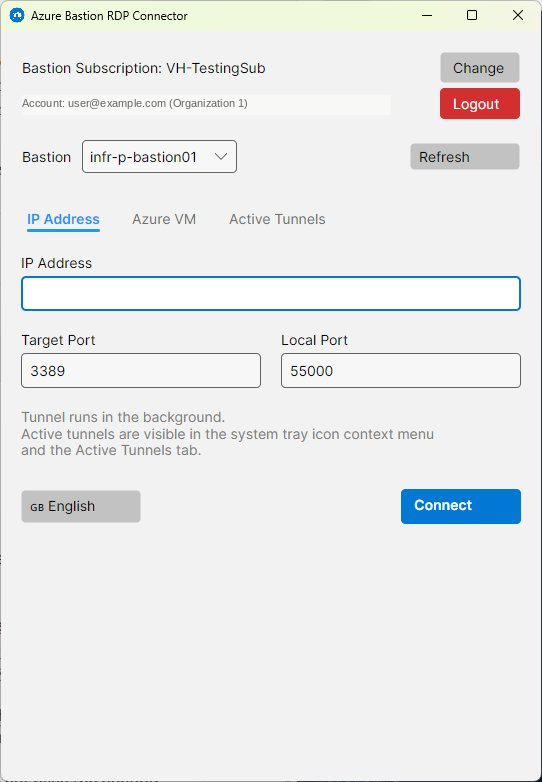
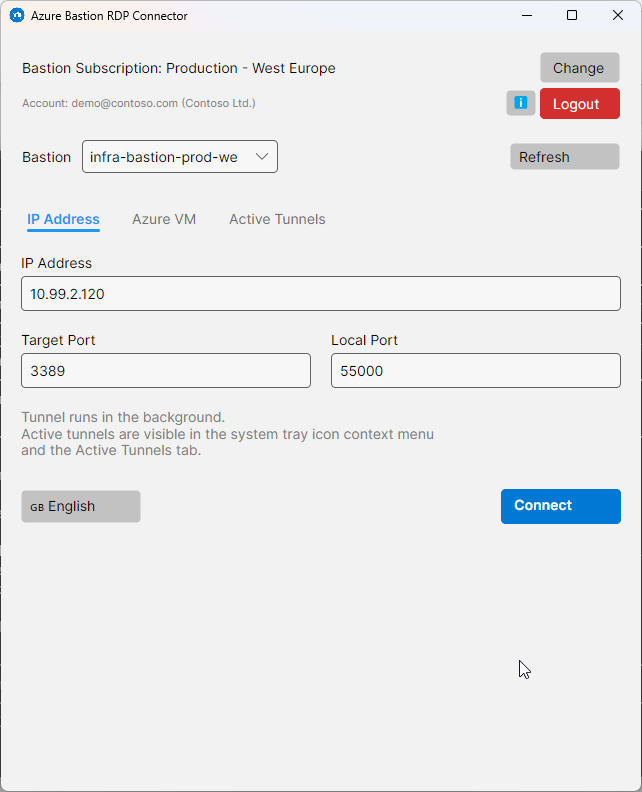
docs: nieuwe screenshots v3.3 — IP tab, VM modi, About dialoog
- screen-ip.png: IP-adres tab
- screen-vm-running.png: Azure VM, RD Gateway, running + Connect actief
- screen-vm-stopped.png: Azure VM, RD Gateway, stopped (deallocated)
- screen-vm-tunnel.png: Azure VM, Tunnel-modus, poortconfiguratie
- screen-vm-allsubs.png: Azure VM, Alle subscriptions dropdown open
- screen-about.png: About/diagnostics dialoogvenster
- TODO-commentaar verwijderd uit alle 6 taalversies
- Nieuwe screenshots op juiste plekken in de HTML geplaatst (6 talen)

diff --git a/index.fr.html b/index.fr.html
@@ -1078,16 +1078,17 @@
 
     <div style="display:flex; gap:16px; align-items:flex-start; margin:16px 0 20px; flex-wrap:wrap;">
       <div style="text-align:center;">
-        <!-- TODO: update screenshot for v3.3 two-column layout -->
         <img src="screen-vm-stopped.png" alt="Azure VM tab – VM stopped" style="width:240px; border-radius:8px; border:1px solid var(--border); box-shadow:0 4px 16px rgba(0,0,0,.10);"/>
         <div style="font-size:12px; color:var(--ink-faint); margin-top:6px;">VM arrêtée (désallouée)</div>
       </div>
       <div style="text-align:center;">
-        <!-- TODO: update screenshot for v3.3 two-column layout -->
         <img src="screen-vm-running.png" alt="Azure VM tab – VM running" style="width:240px; border-radius:8px; border:1px solid var(--border); box-shadow:0 4px 16px rgba(0,0,0,.10);"/>
         <div style="font-size:12px; color:var(--ink-faint); margin-top:6px;">VM en cours – Connecter activé</div>
       </div>
     </div>
+
+    <!-- Tunnel mode screenshot -->
+    <img src="screen-vm-tunnel.png" alt="Onglet Azure VM – Mode Tunnel" style="display:block; width:280px; border-radius:8px; border:1px solid var(--border); box-shadow:0 4px 16px rgba(0,0,0,.10); margin:16px 0 20px;"/>
 
     <h3>Disposition en deux colonnes <span class="badge blue">v3.3</span></h3>
     <p>L'onglet Azure VM est divisé en deux colonnes :</p>
@@ -1113,6 +1114,8 @@
       <span class="ci">ℹ</span>
       <p><strong>Azure Resource Graph</strong> — Depuis la v3.3, le chargement des VM utilise l'API Azure Resource Graph pour les requêtes inter-abonnements. Cela remplace l'approche précédente consistant à interroger chaque abonnement individuellement, rendant les scénarios multi-abonnements nettement plus rapides.</p>
     </div>
+
+    <img src="screen-vm-allsubs.png" alt="Onglet Azure VM – Recherche tous abonnements" style="display:block; width:280px; border-radius:8px; border:1px solid var(--border); box-shadow:0 4px 16px rgba(0,0,0,.10); margin:16px 0 20px;"/>
 
     <div class="ui-card">
       <div class="ui-card-titlebar">
@@ -1561,6 +1564,8 @@
   <section id="about">
     <h2><span class="icon">ℹ</span> À propos &amp; Diagnostics <span class="badge blue">v3.3</span></h2>
     <p>Un nouveau <strong>bouton ℹ</strong> dans la barre supérieure ouvre la boîte de dialogue À propos. Elle affiche la version de l'application, les informations sur la plateforme et deux actions de diagnostic :</p>
+
+    <img src="screen-about.png" alt="Fenêtre À propos" style="display:block; width:320px; border-radius:8px; border:1px solid var(--border); box-shadow:0 4px 16px rgba(0,0,0,.10); margin:16px 0 20px;"/>
 
     <table class="field-table">
       <thead><tr><th>Action</th><th>Description</th></tr></thead>

diff --git a/index.es.html b/index.es.html
@@ -1085,16 +1085,17 @@
 
     <div style="display:flex; gap:16px; align-items:flex-start; margin:16px 0 20px; flex-wrap:wrap;">
       <div style="text-align:center;">
-        <!-- TODO: update screenshot for v3.3 two-column layout -->
         <img src="screen-vm-stopped.png" alt="Azure VM tab – VM stopped" style="width:240px; border-radius:8px; border:1px solid var(--border); box-shadow:0 4px 16px rgba(0,0,0,.10);"/>
         <div style="font-size:12px; color:var(--ink-faint); margin-top:6px;">VM detenida (desasignada)</div>
       </div>
       <div style="text-align:center;">
-        <!-- TODO: update screenshot for v3.3 two-column layout -->
         <img src="screen-vm-running.png" alt="Azure VM tab – VM running" style="width:240px; border-radius:8px; border:1px solid var(--border); box-shadow:0 4px 16px rgba(0,0,0,.10);"/>
         <div style="font-size:12px; color:var(--ink-faint); margin-top:6px;">VM en ejecución – Conectar habilitado</div>
       </div>
     </div>
+
+    <!-- Tunnel mode screenshot -->
+    <img src="screen-vm-tunnel.png" alt="Pestaña Azure VM – Modo Túnel" style="display:block; width:280px; border-radius:8px; border:1px solid var(--border); box-shadow:0 4px 16px rgba(0,0,0,.10); margin:16px 0 20px;"/>
 
     <h3>Diseño de dos columnas <span class="badge blue">v3.3</span></h3>
     <p>La pestaña Azure VM está dividida en dos columnas:</p>
@@ -1120,6 +1121,8 @@
       <span class="ci">ℹ</span>
       <p><strong>Azure Resource Graph</strong> — En la v3.3, la carga de VM usa la API Azure Resource Graph para consultas entre suscripciones. Esto reemplaza el enfoque anterior de llamar individualmente a cada suscripción, haciendo los escenarios de múltiples suscripciones considerablemente más rápidos.</p>
     </div>
+
+    <img src="screen-vm-allsubs.png" alt="Pestaña Azure VM – Buscar todas las suscripciones" style="display:block; width:280px; border-radius:8px; border:1px solid var(--border); box-shadow:0 4px 16px rgba(0,0,0,.10); margin:16px 0 20px;"/>
 
     <div class="ui-card">
       <div class="ui-card-titlebar">
@@ -1568,6 +1571,8 @@
   <section id="about">
     <h2><span class="icon">ℹ</span> Acerca de &amp; Diagnósticos <span class="badge blue">v3.3</span></h2>
     <p>Un nuevo <strong>botón ℹ</strong> en la barra superior abre el cuadro de diálogo Acerca de. Muestra la versión de la aplicación, información de la plataforma y dos acciones de diagnóstico:</p>
+
+    <img src="screen-about.png" alt="Cuadro de diálogo Acerca de" style="display:block; width:320px; border-radius:8px; border:1px solid var(--border); box-shadow:0 4px 16px rgba(0,0,0,.10); margin:16px 0 20px;"/>
 
     <table class="field-table">
       <thead><tr><th>Acción</th><th>Descripción</th></tr></thead>

diff --git a/index.pt.html b/index.pt.html
@@ -1085,16 +1085,17 @@
 
     <div style="display:flex; gap:16px; align-items:flex-start; margin:16px 0 20px; flex-wrap:wrap;">
       <div style="text-align:center;">
-        <!-- TODO: update screenshot for v3.3 two-column layout -->
         <img src="screen-vm-stopped.png" alt="Azure VM tab – VM stopped" style="width:240px; border-radius:8px; border:1px solid var(--border); box-shadow:0 4px 16px rgba(0,0,0,.10);"/>
         <div style="font-size:12px; color:var(--ink-faint); margin-top:6px;">VM parada (desalocada)</div>
       </div>
       <div style="text-align:center;">
-        <!-- TODO: update screenshot for v3.3 two-column layout -->
         <img src="screen-vm-running.png" alt="Azure VM tab – VM running" style="width:240px; border-radius:8px; border:1px solid var(--border); box-shadow:0 4px 16px rgba(0,0,0,.10);"/>
         <div style="font-size:12px; color:var(--ink-faint); margin-top:6px;">VM em execução – Ligar ativado</div>
       </div>
     </div>
+
+    <!-- Tunnel mode screenshot -->
+    <img src="screen-vm-tunnel.png" alt="Separador Azure VM – Modo Túnel" style="display:block; width:280px; border-radius:8px; border:1px solid var(--border); box-shadow:0 4px 16px rgba(0,0,0,.10); margin:16px 0 20px;"/>
 
     <h3>Disposição de duas colunas <span class="badge blue">v3.3</span></h3>
     <p>O separador Azure VM está dividido em duas colunas:</p>
@@ -1120,6 +1121,8 @@
       <span class="ci">ℹ</span>
       <p><strong>Azure Resource Graph</strong> — Na v3.3, o carregamento de VMs utiliza a API Azure Resource Graph para consultas entre subscrições. Isto substitui a abordagem anterior de chamar individualmente cada subscrição, tornando os cenários de múltiplas subscrições consideravelmente mais rápidos.</p>
     </div>
+
+    <img src="screen-vm-allsubs.png" alt="Separador Azure VM – Pesquisar todas as assinaturas" style="display:block; width:280px; border-radius:8px; border:1px solid var(--border); box-shadow:0 4px 16px rgba(0,0,0,.10); margin:16px 0 20px;"/>
 
     <div class="ui-card">
       <div class="ui-card-titlebar">
@@ -1568,6 +1571,8 @@
   <section id="about">
     <h2><span class="icon">ℹ</span> Sobre &amp; Diagnósticos <span class="badge blue">v3.3</span></h2>
     <p>Um novo <strong>botão ℹ</strong> na barra superior abre a caixa de diálogo Sobre. Mostra a versão da aplicação, informações da plataforma e duas ações de diagnóstico:</p>
+
+    <img src="screen-about.png" alt="Caixa de diálogo Sobre" style="display:block; width:320px; border-radius:8px; border:1px solid var(--border); box-shadow:0 4px 16px rgba(0,0,0,.10); margin:16px 0 20px;"/>
 
     <table class="field-table">
       <thead><tr><th>Ação</th><th>Descrição</th></tr></thead>

diff --git a/index.nl.html b/index.nl.html
@@ -1072,16 +1072,17 @@
 
     <div style="display:flex; gap:16px; align-items:flex-start; margin:16px 0 20px; flex-wrap:wrap;">
       <div style="text-align:center;">
-        <!-- TODO: update screenshot for v3.3 two-column layout -->
         <img src="screen-vm-stopped.png" alt="Azure VM tab – VM stopped" style="width:240px; border-radius:8px; border:1px solid var(--border); box-shadow:0 4px 16px rgba(0,0,0,.10);"/>
         <div style="font-size:12px; color:var(--ink-faint); margin-top:6px;">VM gestopt (gede-alloceerd)</div>
       </div>
       <div style="text-align:center;">
-        <!-- TODO: update screenshot for v3.3 two-column layout -->
         <img src="screen-vm-running.png" alt="Azure VM tab – VM running" style="width:240px; border-radius:8px; border:1px solid var(--border); box-shadow:0 4px 16px rgba(0,0,0,.10);"/>
         <div style="font-size:12px; color:var(--ink-faint); margin-top:6px;">VM actief — Verbinden ingeschakeld</div>
       </div>
     </div>
+
+    <!-- Tunnel mode screenshot -->
+    <img src="screen-vm-tunnel.png" alt="Azure VM tab – Tunnel-modus" style="display:block; width:280px; border-radius:8px; border:1px solid var(--border); box-shadow:0 4px 16px rgba(0,0,0,.10); margin:16px 0 20px;"/>
 
     <h3>Twee-kolommenindeling <span class="badge blue">v3.3</span></h3>
     <p>Het tabblad Azure VM is verdeeld in twee kolommen:</p>
@@ -1107,6 +1108,8 @@
       <span class="ci">ℹ</span>
       <p><strong>Azure Resource Graph</strong> — Vanaf v3.3 gebruikt het laden van VM's de Azure Resource Graph API voor zoekopdrachten over meerdere subscriptions. Dit vervangt de vorige aanpak waarbij elk subscription afzonderlijk werd bevraagd, waardoor scenario's met meerdere subscriptions aanzienlijk sneller zijn.</p>
     </div>
+
+    <img src="screen-vm-allsubs.png" alt="Azure VM tab – Alle subscriptions zoeken" style="display:block; width:280px; border-radius:8px; border:1px solid var(--border); box-shadow:0 4px 16px rgba(0,0,0,.10); margin:16px 0 20px;"/>
 
     <div class="ui-card">
       <div class="ui-card-titlebar">
@@ -1555,6 +1558,8 @@
   <section id="about">
     <h2><span class="icon">ℹ</span> Over &amp; Diagnostiek <span class="badge blue">v3.3</span></h2>
     <p>Een nieuwe <strong>ℹ-knop</strong> in de bovenste balk opent het Dialoogvenster Info. Dit toont de applicatieversie, platforminformatie en twee diagnostische acties:</p>
+
+    <img src="screen-about.png" alt="Over-dialoogvenster" style="display:block; width:320px; border-radius:8px; border:1px solid var(--border); box-shadow:0 4px 16px rgba(0,0,0,.10); margin:16px 0 20px;"/>
 
     <table class="field-table">
       <thead><tr><th>Actie</th><th>Beschrijving</th></tr></thead>

diff --git a/index.de.html b/index.de.html
@@ -1079,16 +1079,17 @@
 
     <div style="display:flex; gap:16px; align-items:flex-start; margin:16px 0 20px; flex-wrap:wrap;">
       <div style="text-align:center;">
-        <!-- TODO: update screenshot for v3.3 two-column layout -->
         <img src="screen-vm-stopped.png" alt="Azure VM tab – VM stopped" style="width:240px; border-radius:8px; border:1px solid var(--border); box-shadow:0 4px 16px rgba(0,0,0,.10);"/>
         <div style="font-size:12px; color:var(--ink-faint); margin-top:6px;">VM gestoppt (freigegeben)</div>
       </div>
       <div style="text-align:center;">
-        <!-- TODO: update screenshot for v3.3 two-column layout -->
         <img src="screen-vm-running.png" alt="Azure VM tab – VM running" style="width:240px; border-radius:8px; border:1px solid var(--border); box-shadow:0 4px 16px rgba(0,0,0,.10);"/>
         <div style="font-size:12px; color:var(--ink-faint); margin-top:6px;">VM läuft – Verbinden aktiviert</div>
       </div>
     </div>
+
+    <!-- Tunnel mode screenshot -->
+    <img src="screen-vm-tunnel.png" alt="Azure VM-Tab – Tunnel-Modus" style="display:block; width:280px; border-radius:8px; border:1px solid var(--border); box-shadow:0 4px 16px rgba(0,0,0,.10); margin:16px 0 20px;"/>
 
     <h3>Zweispaltiges Layout <span class="badge blue">v3.3</span></h3>
     <p>Die Registerkarte Azure VM ist in zwei Spalten unterteilt:</p>
@@ -1114,6 +1115,8 @@
       <span class="ci">ℹ</span>
       <p><strong>Azure Resource Graph</strong> — Ab v3.3 verwendet das Laden von VMs die Azure Resource Graph API für abonnementübergreifende Abfragen. Dies ersetzt den bisherigen Ansatz, bei dem jede Subscription einzeln abgefragt wurde, und macht Szenarien mit mehreren Subscriptions deutlich schneller.</p>
     </div>
+
+    <img src="screen-vm-allsubs.png" alt="Azure VM-Tab – Alle Abonnements suchen" style="display:block; width:280px; border-radius:8px; border:1px solid var(--border); box-shadow:0 4px 16px rgba(0,0,0,.10); margin:16px 0 20px;"/>
 
     <div class="ui-card">
       <div class="ui-card-titlebar">
@@ -1562,6 +1565,8 @@
   <section id="about">
     <h2><span class="icon">ℹ</span> Info &amp; Diagnose <span class="badge blue">v3.3</span></h2>
     <p>Eine neue <strong>ℹ-Schaltfläche</strong> in der oberen Leiste öffnet den Info-Dialog. Er zeigt die Anwendungsversion, Plattforminformationen und zwei Diagnoseaktionen:</p>
+
+    <img src="screen-about.png" alt="Über-Dialog" style="display:block; width:320px; border-radius:8px; border:1px solid var(--border); box-shadow:0 4px 16px rgba(0,0,0,.10); margin:16px 0 20px;"/>
 
     <table class="field-table">
       <thead><tr><th>Aktion</th><th>Beschreibung</th></tr></thead>

diff --git a/index.html b/index.html
@@ -1072,16 +1072,17 @@
 
     <div style="display:flex; gap:16px; align-items:flex-start; margin:16px 0 20px; flex-wrap:wrap;">
       <div style="text-align:center;">
-        <!-- TODO: update screenshot for v3.3 two-column layout -->
         <img src="screen-vm-stopped.png" alt="Azure VM tab – VM stopped" style="width:240px; border-radius:8px; border:1px solid var(--border); box-shadow:0 4px 16px rgba(0,0,0,.10);"/>
         <div style="font-size:12px; color:var(--ink-faint); margin-top:6px;">VM stopped (deallocated)</div>
       </div>
       <div style="text-align:center;">
-        <!-- TODO: update screenshot for v3.3 two-column layout -->
         <img src="screen-vm-running.png" alt="Azure VM tab – VM running" style="width:240px; border-radius:8px; border:1px solid var(--border); box-shadow:0 4px 16px rgba(0,0,0,.10);"/>
         <div style="font-size:12px; color:var(--ink-faint); margin-top:6px;">VM running – Connect enabled</div>
       </div>
     </div>
+
+    <!-- Tunnel mode screenshot -->
+    <img src="screen-vm-tunnel.png" alt="Azure VM tab – Tunnel mode" style="display:block; width:280px; border-radius:8px; border:1px solid var(--border); box-shadow:0 4px 16px rgba(0,0,0,.10); margin:16px 0 20px;"/>
 
     <h3>Two-column layout <span class="badge blue">v3.3</span></h3>
     <p>The Azure VM tab is divided into two columns:</p>
@@ -1107,6 +1108,8 @@
       <span class="ci">ℹ</span>
       <p><strong>Azure Resource Graph</strong> — In v3.3, VM loading uses the Azure Resource Graph API for cross-subscription queries. This replaces the previous approach of calling each subscription's ARM endpoint individually, making multi-subscription scenarios dramatically faster.</p>
     </div>
+
+    <img src="screen-vm-allsubs.png" alt="Azure VM tab – All subscriptions search" style="display:block; width:280px; border-radius:8px; border:1px solid var(--border); box-shadow:0 4px 16px rgba(0,0,0,.10); margin:16px 0 20px;"/>
 
     <div class="ui-card">
       <div class="ui-card-titlebar">
@@ -1555,6 +1558,8 @@
   <section id="about">
     <h2><span class="icon">ℹ</span> About &amp; Diagnostics <span class="badge blue">v3.3</span></h2>
     <p>A new <strong>ℹ button</strong> in the top bar opens the About dialog. It shows the application version, platform information, and two diagnostic actions:</p>
+
+    <img src="screen-about.png" alt="About dialog" style="display:block; width:320px; border-radius:8px; border:1px solid var(--border); box-shadow:0 4px 16px rgba(0,0,0,.10); margin:16px 0 20px;"/>
 
     <table class="field-table">
       <thead><tr><th>Action</th><th>Description</th></tr></thead>
